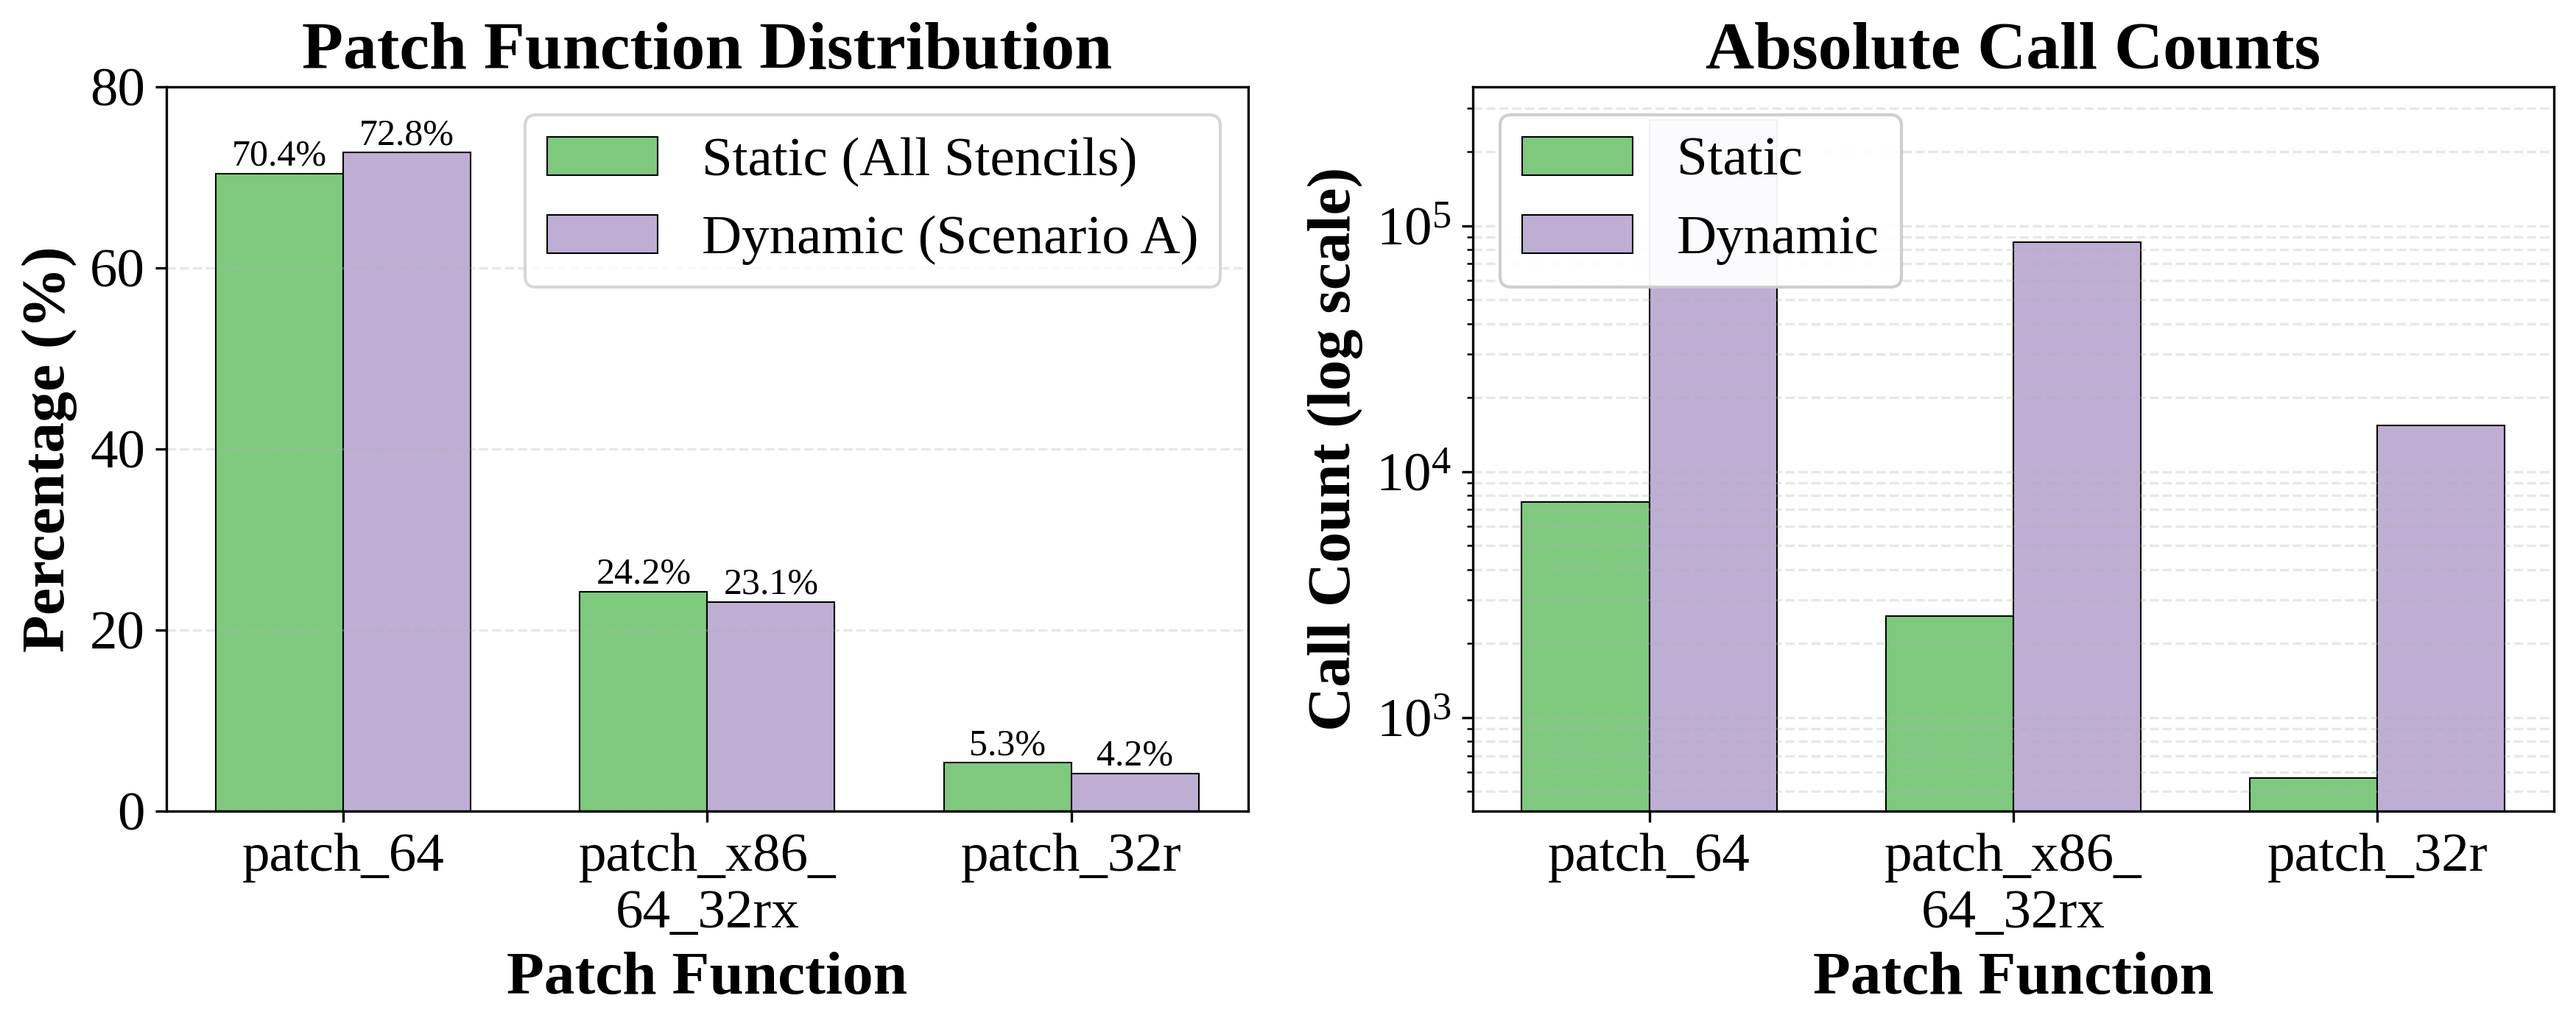
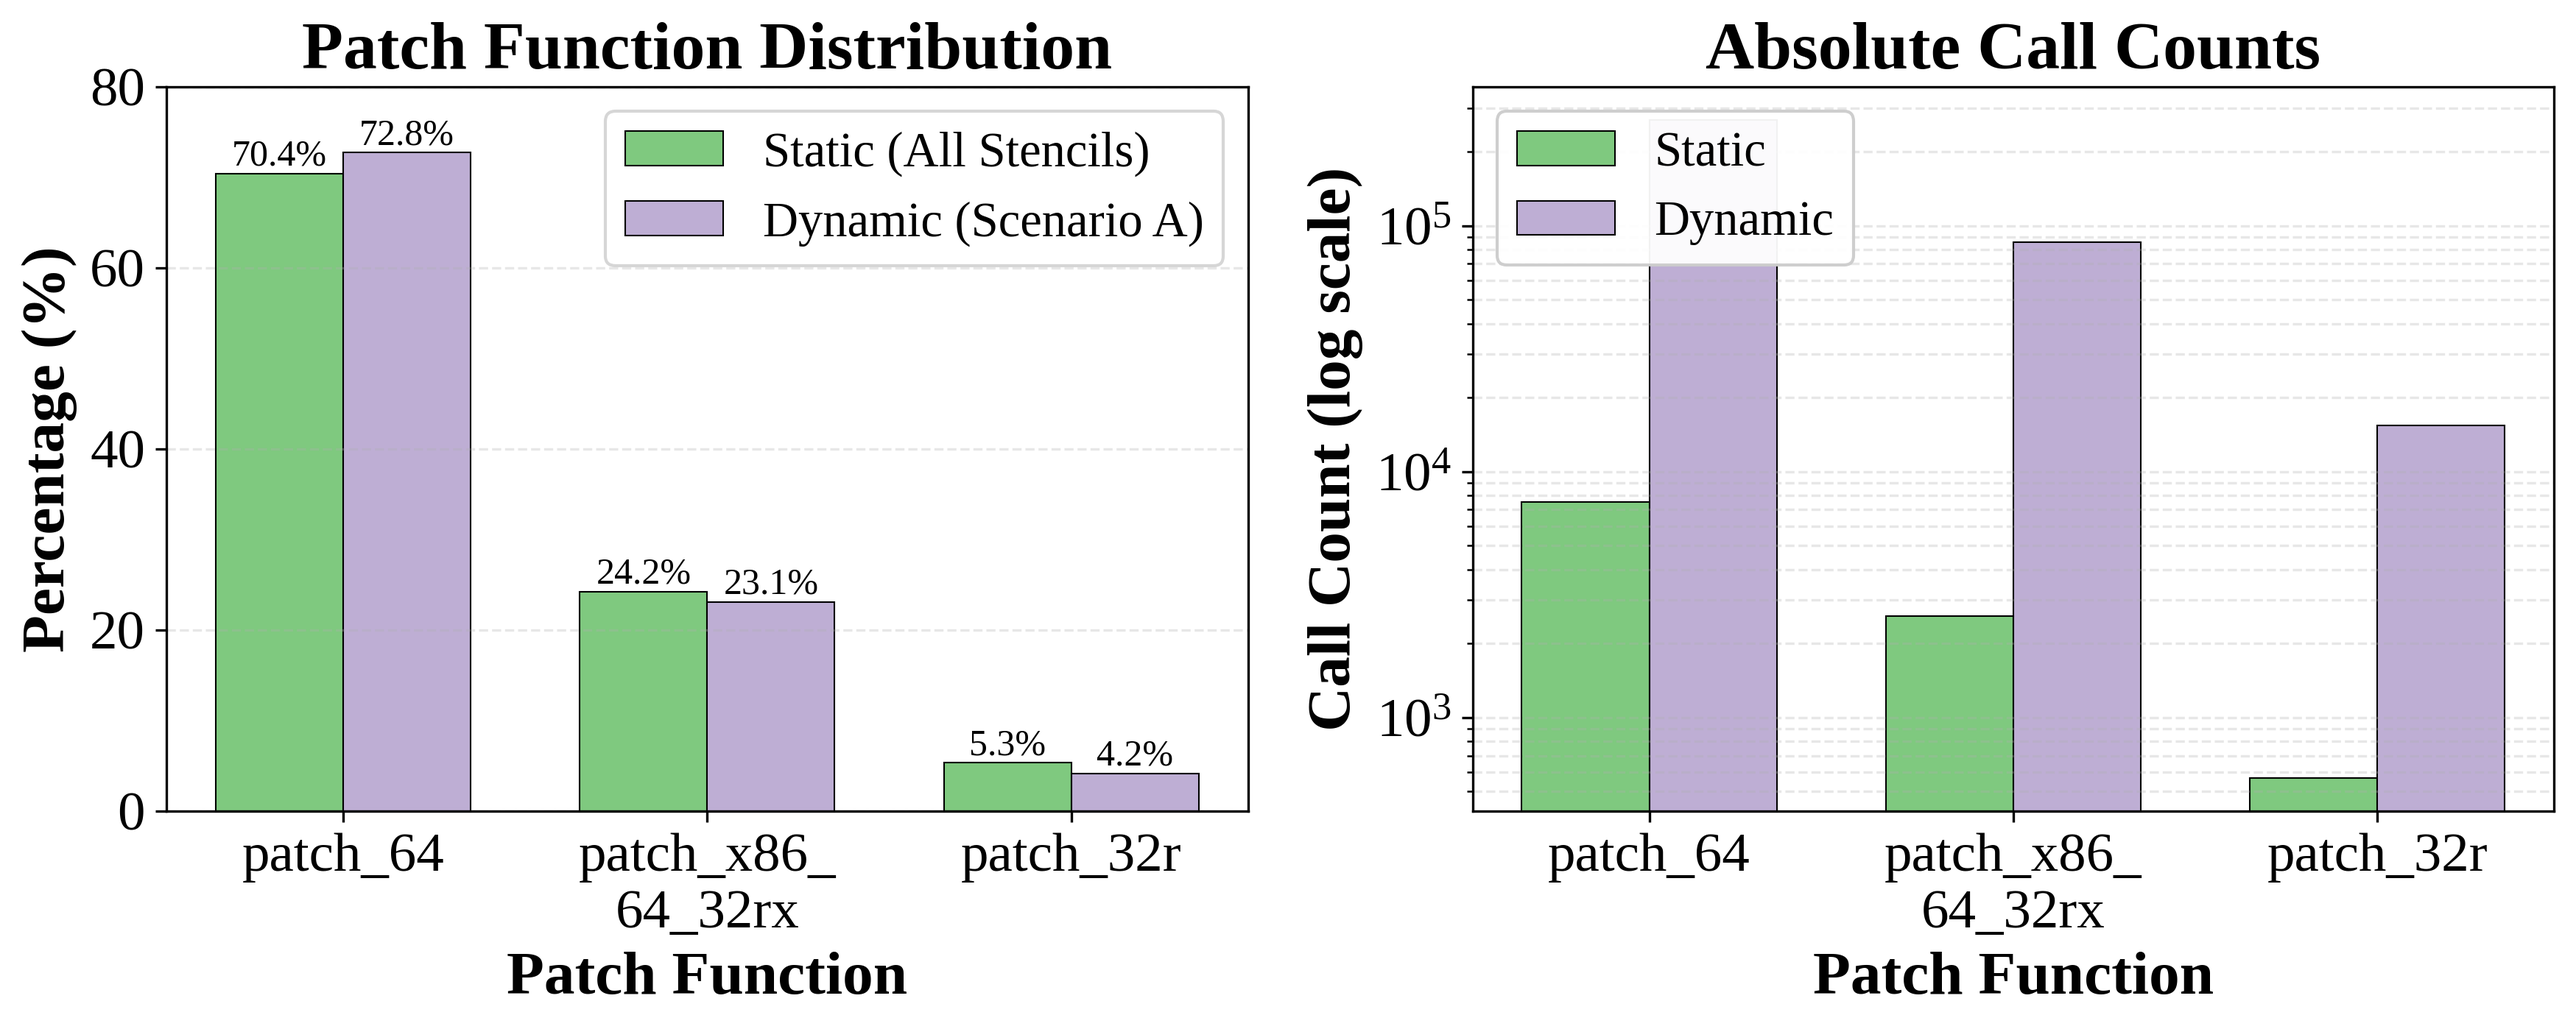
Adjust legend font size to 16pt in Exp4 patch function comparison

Changed region(s): [[0.187, 0.0923, 0.4674, 0.2768], [0.5609, 0.0923, 0.7479, 0.3076]]

diff --git a/gadget_analysis/generate_all_figures.py b/gadget_analysis/generate_all_figures.py
@@ -527,7 +527,7 @@ def generate_exp4_patch_function_comparison(patch_data, output_dir):
     ax1.set_title('Patch Function Distribution', fontweight='bold', color='black')
     ax1.set_xticks(x)
     ax1.set_xticklabels(['patch_64', 'patch_x86_\n64_32rx', 'patch_32r'], color='black')
-    ax1.legend(loc='upper right')
+    ax1.legend(loc='upper right', fontsize=16)
     ax1.grid(axis='y', alpha=0.3, linestyle='--')
     ax1.set_ylim(0, 80)
     
@@ -552,7 +552,7 @@ def generate_exp4_patch_function_comparison(patch_data, output_dir):
     ax2.set_xticks(x)
     ax2.set_xticklabels(['patch_64', 'patch_x86_\n64_32rx', 'patch_32r'], color='black')
     ax2.set_yscale('log')
-    ax2.legend(loc='upper left', framealpha=0.95)
+    ax2.legend(loc='upper left', fontsize=16, framealpha=0.95)
     ax2.grid(axis='y', alpha=0.3, linestyle='--', which='both')
     
     plt.tight_layout()
